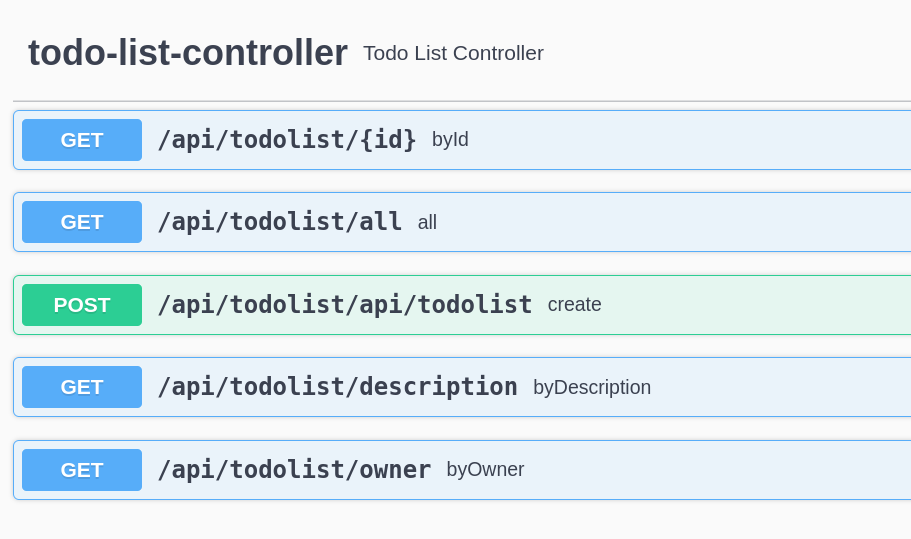
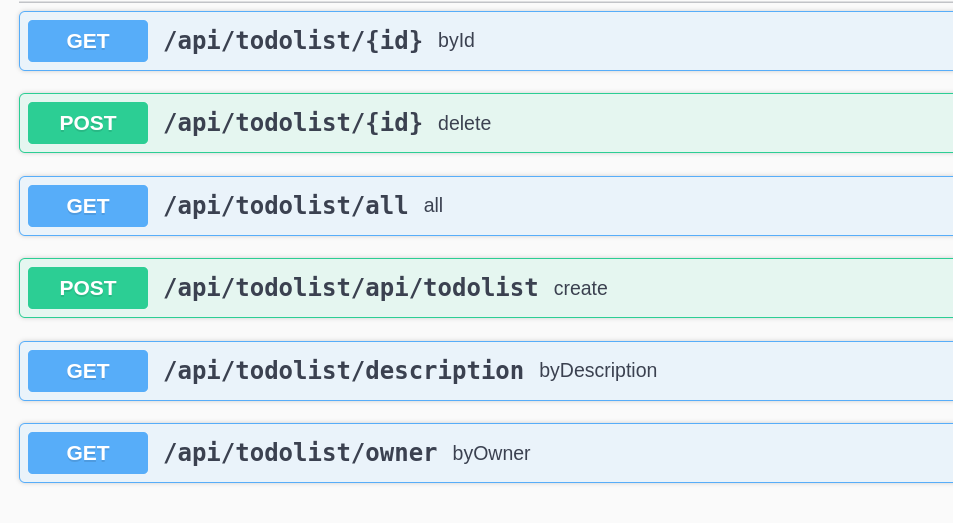
Adding delete api

Changed region(s): [[0.0, 0.3365, 1.0, 0.9484], [0.0, 0.1836, 1.0, 0.3059], [0.0, 0.0, 1.0, 0.1224]]

diff --git a/src/main/java/io/redis/todo/controller/TodoListController.java b/src/main/java/io/redis/todo/controller/TodoListController.java
@@ -46,4 +46,16 @@ public class TodoListController {
         return repo.save(newItem);
     }
 
+    @PostMapping("{id}")
+    public void delete(@PathVariable String id) throws Exception {
+        try {
+            Optional<TodoItem> todoItem = repo.findById(id);
+            if (todoItem.isPresent()) {
+                repo.deleteById(id);
+            }
+        } catch (Exception e) {
+            throw new Exception("Item not found " + id);
+        }
+    }
+
 }
